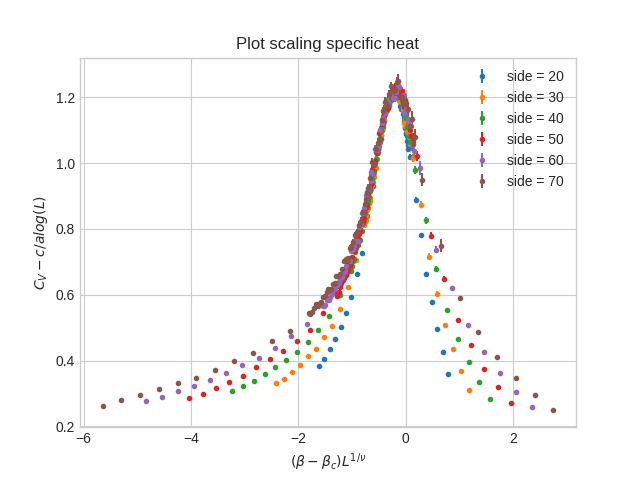
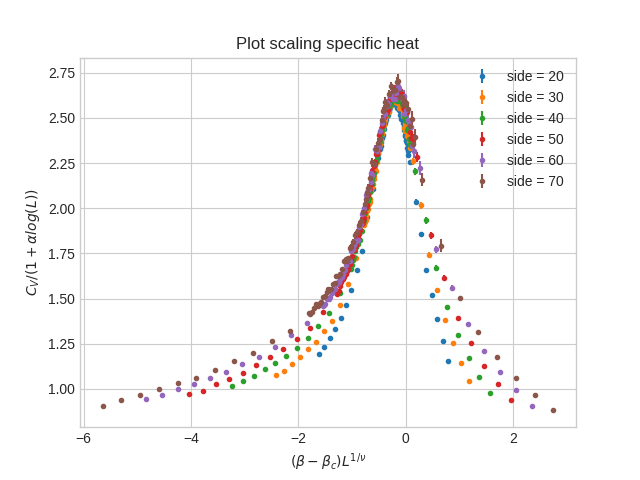
new plot scaling specific heat

diff --git a/Data_processing/critical_plots_subr.py b/Data_processing/critical_plots_subr.py
@@ -247,15 +247,15 @@ def plot_cal_scaling(data, beta_c, param, nu):
     fig = plt.figure(title)
     plt.style.use('seaborn-whitegrid')
     plt.title(title)
-    plt.ylabel(r'$ C_V - c / a log(L)$')
+    plt.ylabel(r'$ C_V / (1 + \alpha log(L))$')
     plt.xlabel(r'$(\beta - \beta_c) L^{1 / \nu} $')
     # load and plot susceptibility in function of beta
     a = param[0]
     c = param[1]
     for side in sides:
         x, _, _, _, _, y, y_err, _, _ = data[side]
-        y = (y - c) / (c*np.log(side))
-        y_err = y_err / (c*np.log(side))
+        y = y  / (1 + (c/a)*np.log(side))
+        y_err = y_err / (1 + (c/a)*np.log(side))
         x = (x - beta_c) * np.power(side, (1/nu))
         plt.errorbar(x, y, yerr=y_err, fmt='.', label=f'side = {side}')
     # save and show
